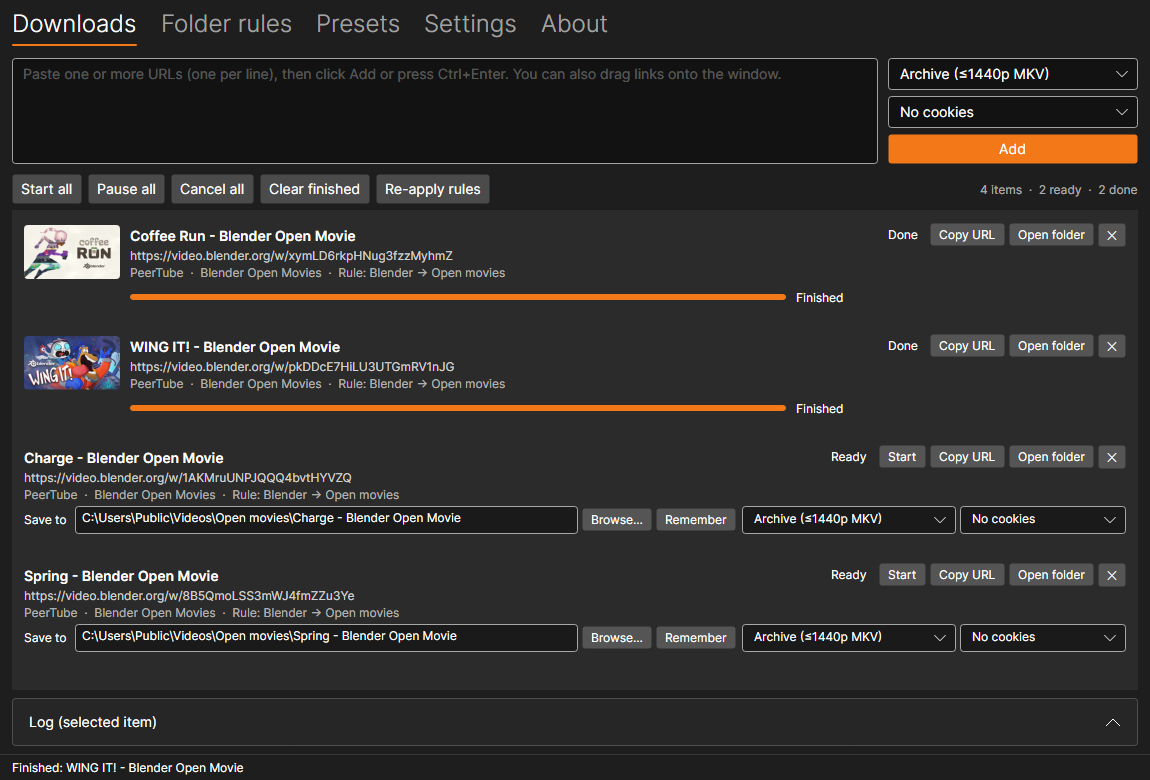
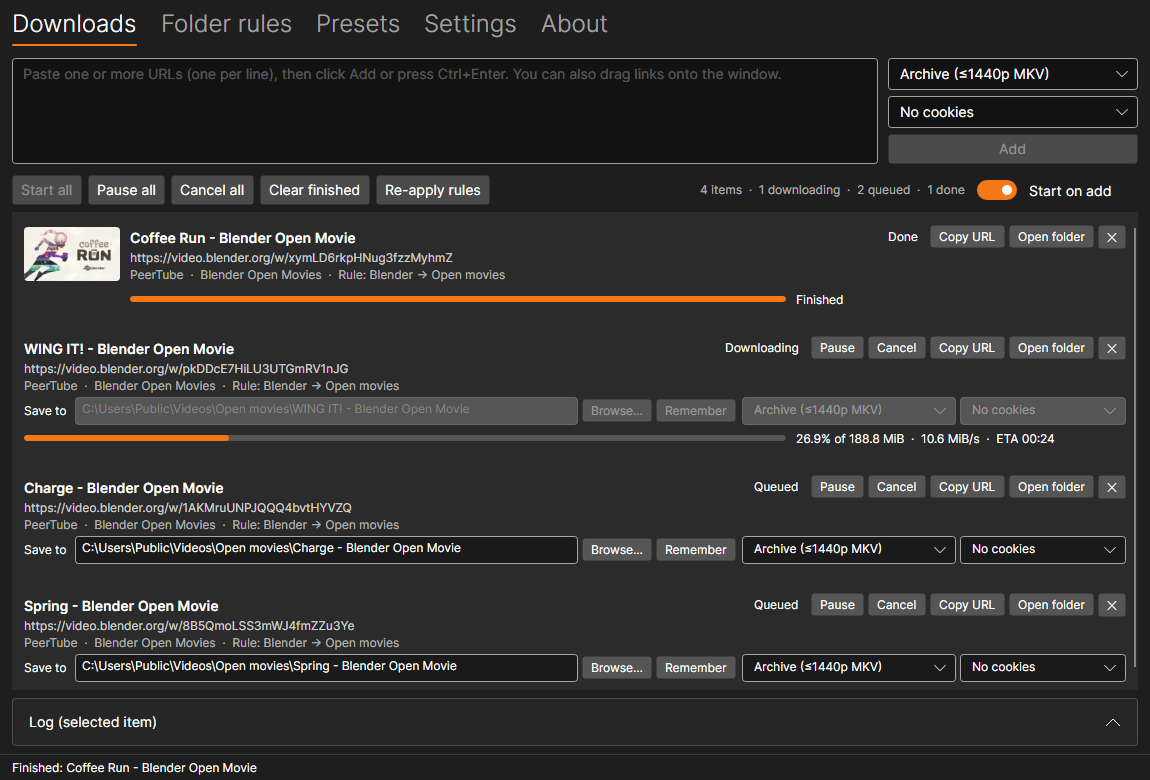
Show a download in progress and the Start on add switch in the screenshots

diff --git a/docs/index.html b/docs/index.html
@@ -192,9 +192,9 @@ footer a:hover { color: var(--text); }
        alt="Download from the Microsoft Store"></a>
   </div>
   <img class="shot shot-light" src="screenshots/downloads-light.png" width="1150" height="780"
-       alt="Downloads tab: four Blender open movies, each filed into a folder by a rule, two finished with thumbnails">
+       alt="Downloads tab: four Blender open movies, each filed into a folder by a rule, one finished with its thumbnail, one downloading and two waiting">
   <img class="shot shot-dark" src="screenshots/downloads.png" width="1150" height="780"
-       alt="Downloads tab in the dark theme: four Blender open movies, each filed into a folder by a rule, two finished with thumbnails">
+       alt="Downloads tab in the dark theme: four Blender open movies, each filed into a folder by a rule, one finished with its thumbnail, one downloading and two waiting">
 </div>
 
 <section id="features" class="alt">

diff --git a/README.md b/README.md
@@ -20,7 +20,7 @@ every download gets filed into the right folder automatically.
 
 ____
 
-![Downloads tab with four Blender open movies, each filed into a folder by a rule, two finished with thumbnails](docs/screenshots/downloads-light.png)
+![Downloads tab with four Blender open movies, each filed into a folder by a rule, one finished with its thumbnail, one downloading and two waiting](docs/screenshots/downloads-light.png)
 
 It's a from-scratch rewrite in C# (.NET 10 and Avalonia), not a fork, and it doesn't include any code from yt-dlg.
 Most of the code was written with AI (Claude Opus 5.5), and I've tested it a lot.
